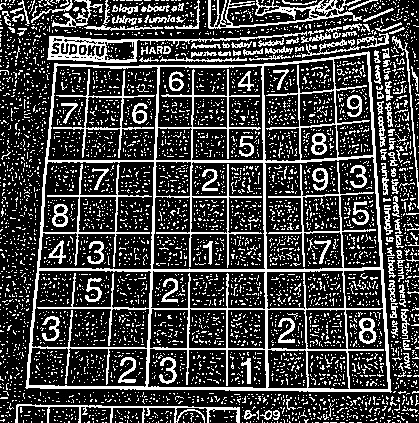
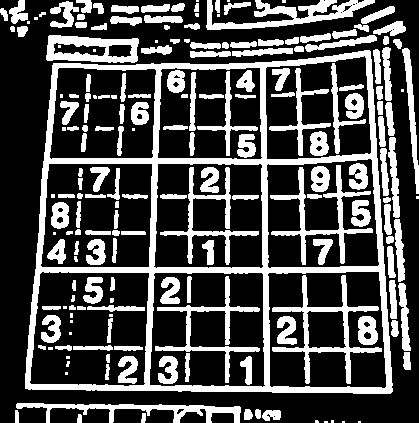
Fixed issues with grid detection

Changed region(s): [[0.0, 0.0, 1.0, 1.0]]

diff --git a/main.py b/main.py
@@ -8,9 +8,11 @@ def grid_detection():
 
   ##outerBox = cv.CreateMat(sudoku.size(), cv.CV_8UC1)
 
-  outerBox = np.zeros((256, 256, 1), dtype = 'uint8')
+  height, width = sudoku.shape[:2]
 
-  cv2.GaussianBlur(sudoku, (11,11), 0)
+  outerBox = np.zeros((height, width), dtype = 'uint8')
+
+  sudoku = cv2.GaussianBlur(sudoku, (11,11), 0)
 
   #cv2.adaptiveThreshold(sudoku, outerBox, 255, cv2.ADAPTIVE_THRESH_MEAN_C, cv2.THRESH_BINARY, 5, 2)
 
@@ -22,7 +24,7 @@ def grid_detection():
 
   kernel = np.ones((3,3), np.uint8)
 
-  cv2.dilate(outerBox, kernel, iterations = 1)
+  outerBox = cv2.dilate(outerBox, kernel, iterations = 1)
 
   image_path = 'Images/Results/sudoku-test1.jpg'
 
@@ -38,7 +40,6 @@ def main():
 
   cv2.destroyAllWindows() 
 
-  #cv2.waitKey(1)
 
 if __name__ == '__main__':
     main()
